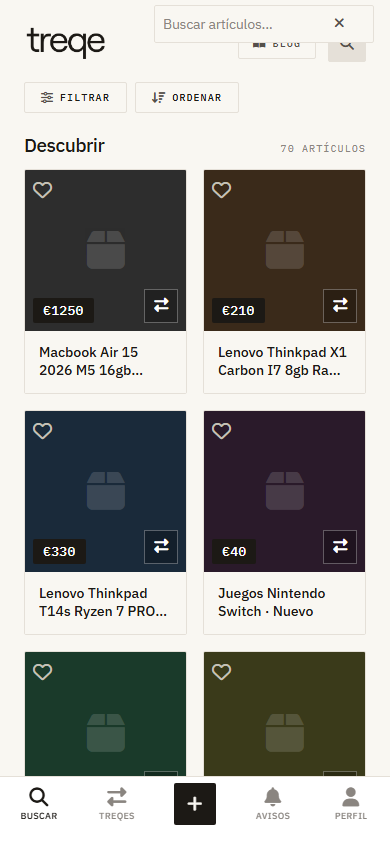
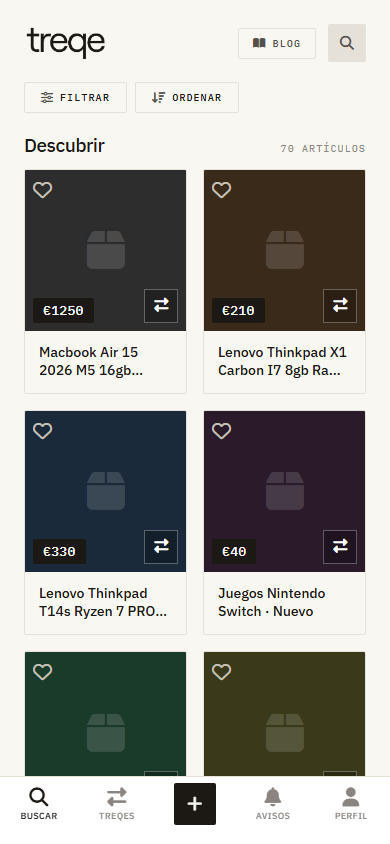
fix: removed leftover search CSS injection — MIB animation now pure

Changed region(s): [[0.4308, 0.0, 0.7692, 0.0616], [0.8308, 0.0, 0.9538, 0.0616]]

diff --git a/apps/web/src/pages/catalog/CatalogPage.tsx b/apps/web/src/pages/catalog/CatalogPage.tsx
@@ -267,10 +267,6 @@ export function CatalogPage() {
   // Wire search
   useEffect(() => {
     if (!html) return;
-    // Inject search CSS
-    const style = document.createElement("style");
-    style.textContent = `.search-expand{position:fixed!important;top:24px!important;right:16px!important;display:none!important;align-items:center;background:var(--bg);border:1px solid var(--border);z-index:9999;padding:0 8px;height:38px}.search-expand.open{display:flex!important}.search-expand input{border:none;font-family:inherit;font-size:.8rem;width:160px;background:transparent}`;
-    document.body.appendChild(style);
     let tries = 0;
     const iv = setInterval(() => {
       const icon = document.getElementById("searchIcon");

diff --git a/test_search3.py b/test_search3.py
@@ -8,22 +8,12 @@ async def test():
         await page.goto("http://localhost:5173/catalogo", wait_until="networkidle", timeout=15000)
         await page.wait_for_timeout(3000)
         
-        rules = await page.evaluate("""() => {
-            const sheets = document.styleSheets;
-            let matches = [];
-            for (const sheet of sheets) {
-                try {
-                    for (const rule of sheet.cssRules) {
-                        if (rule.selectorText && rule.selectorText.includes('search-expand')) {
-                            matches.push({sel: rule.selectorText, css: rule.style.cssText.substring(0, 150)});
-                        }
-                    }
-                } catch(e) {}
-            }
-            return matches;
+        transition = await page.evaluate("""() => {
+            const e = document.getElementById('searchExpand');
+            if (!e) return 'NOT FOUND';
+            return window.getComputedStyle(e).transition;
         }""")
-        for r in rules:
-            print(f"  {r['sel']}: {r['css']}")
+        print(f"Transition: {transition}")
         
         await b.close()
 